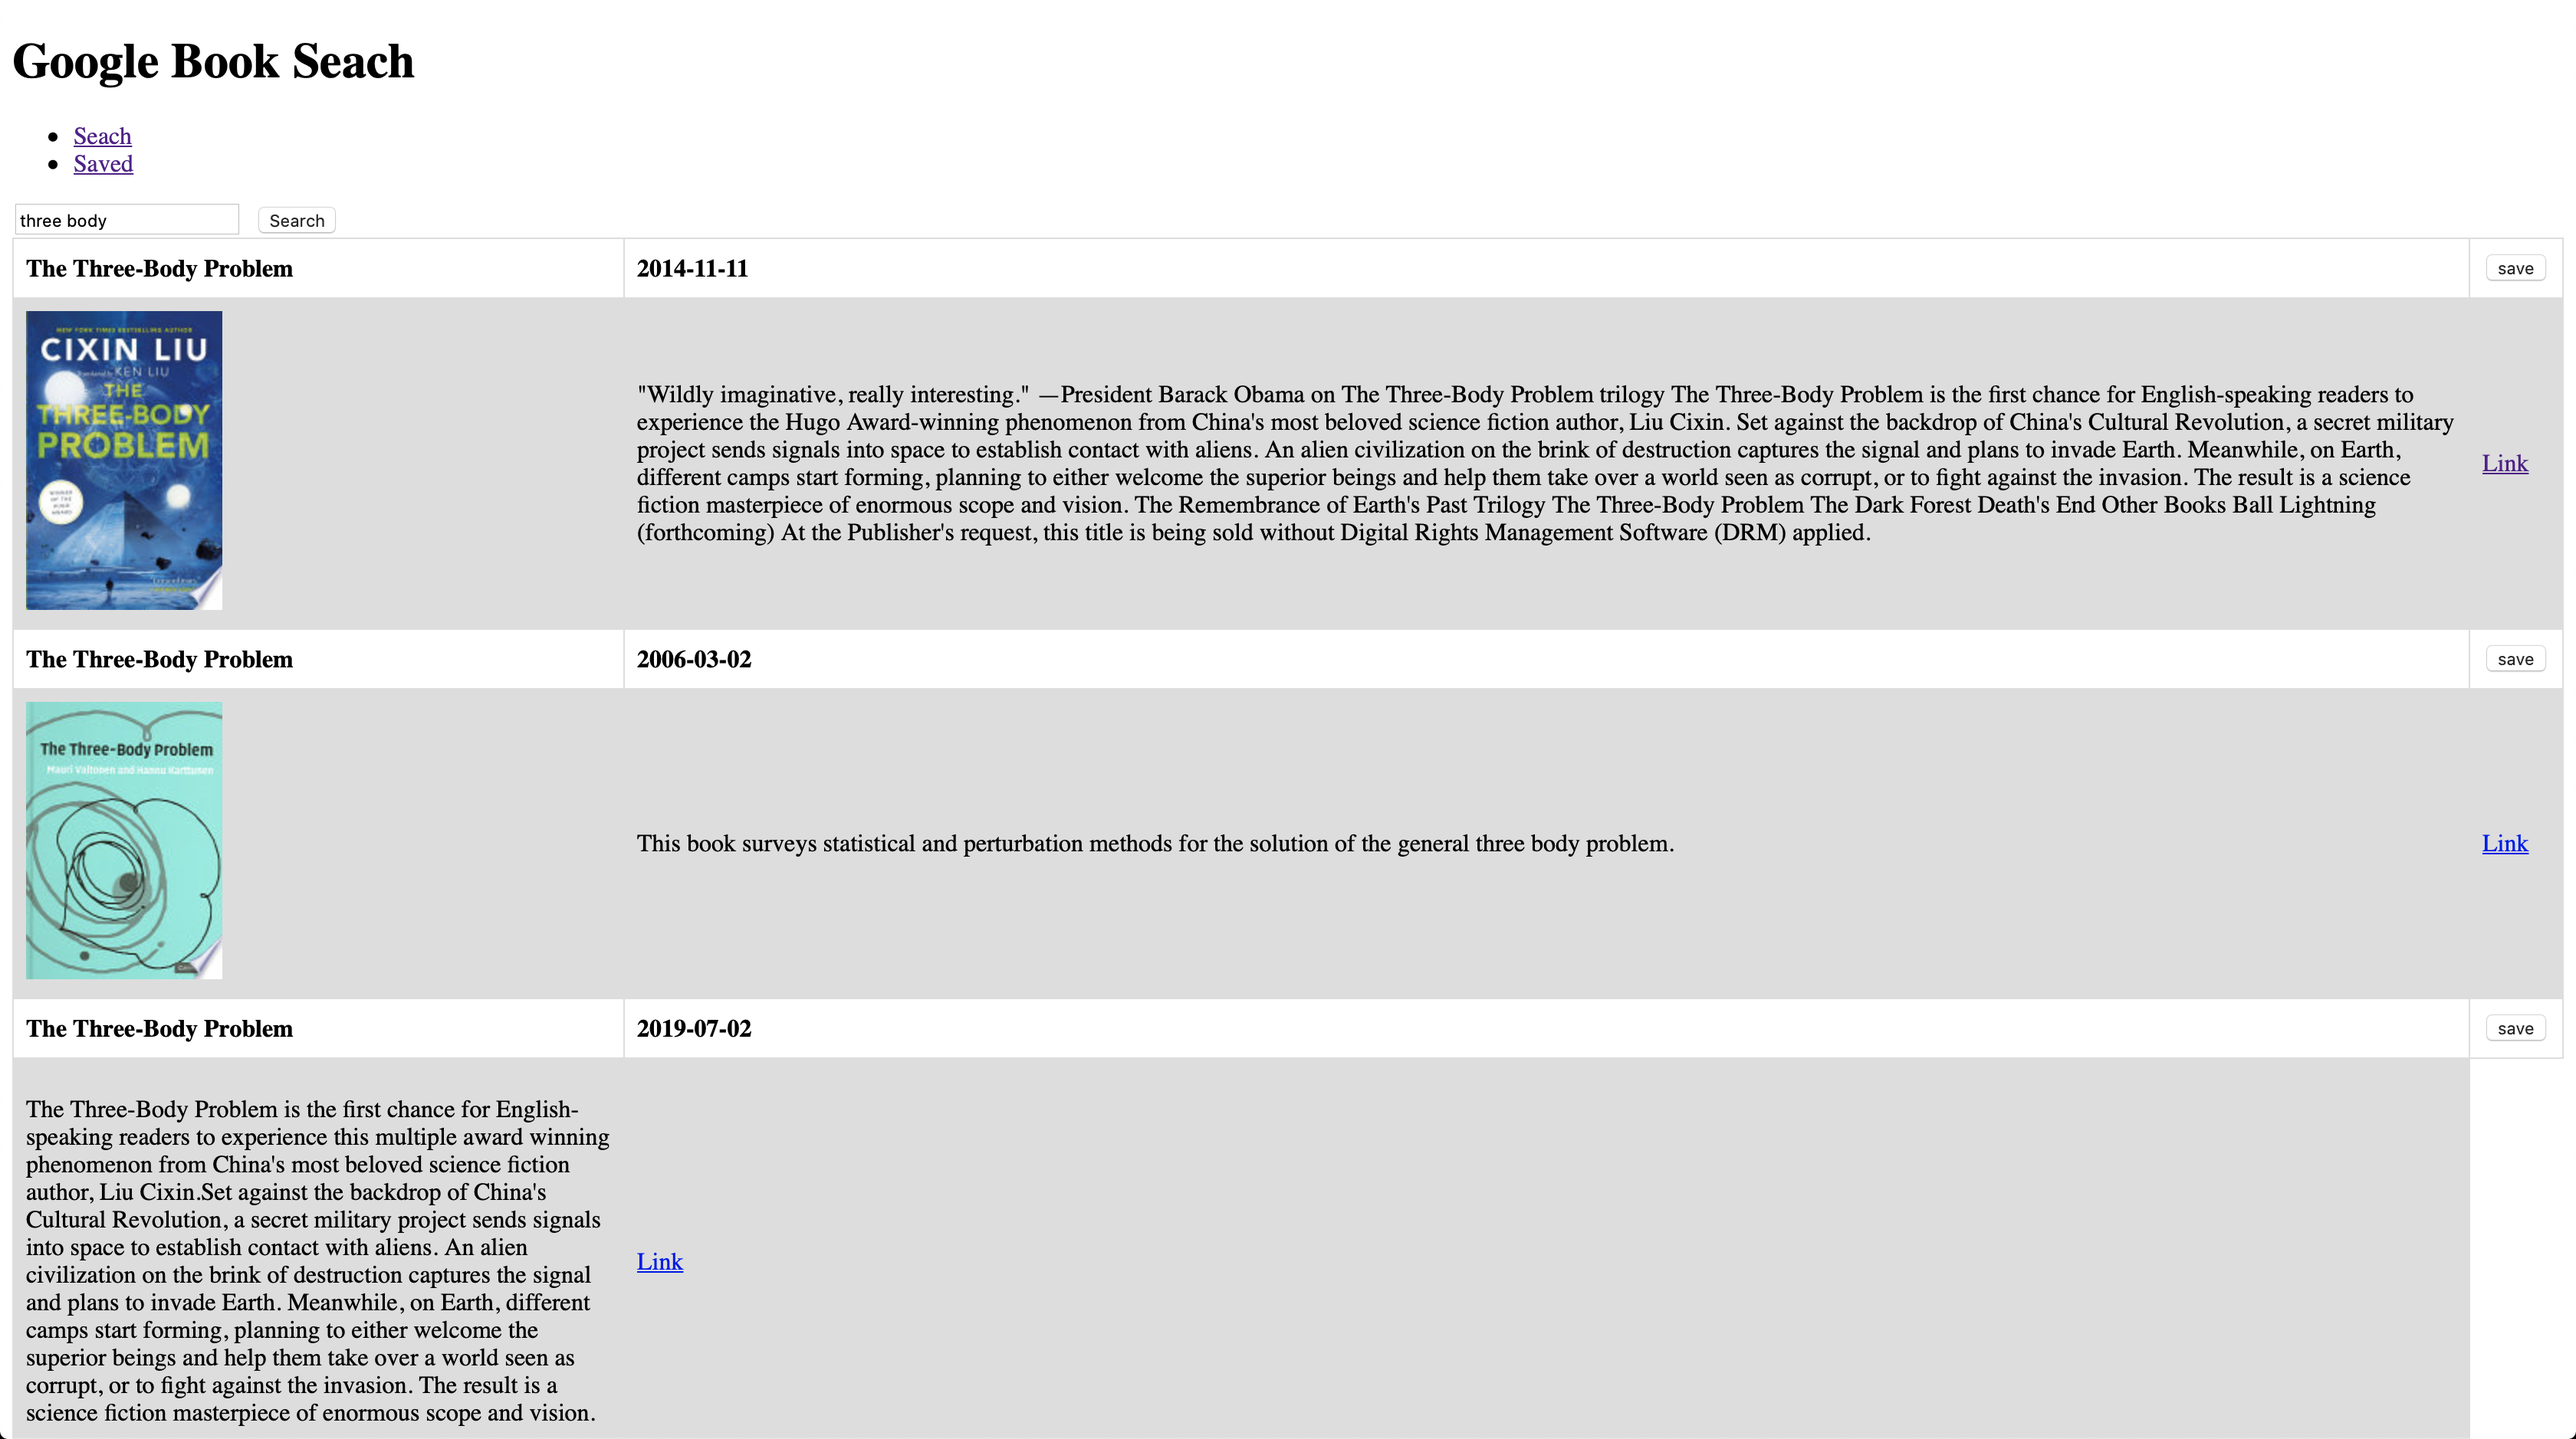
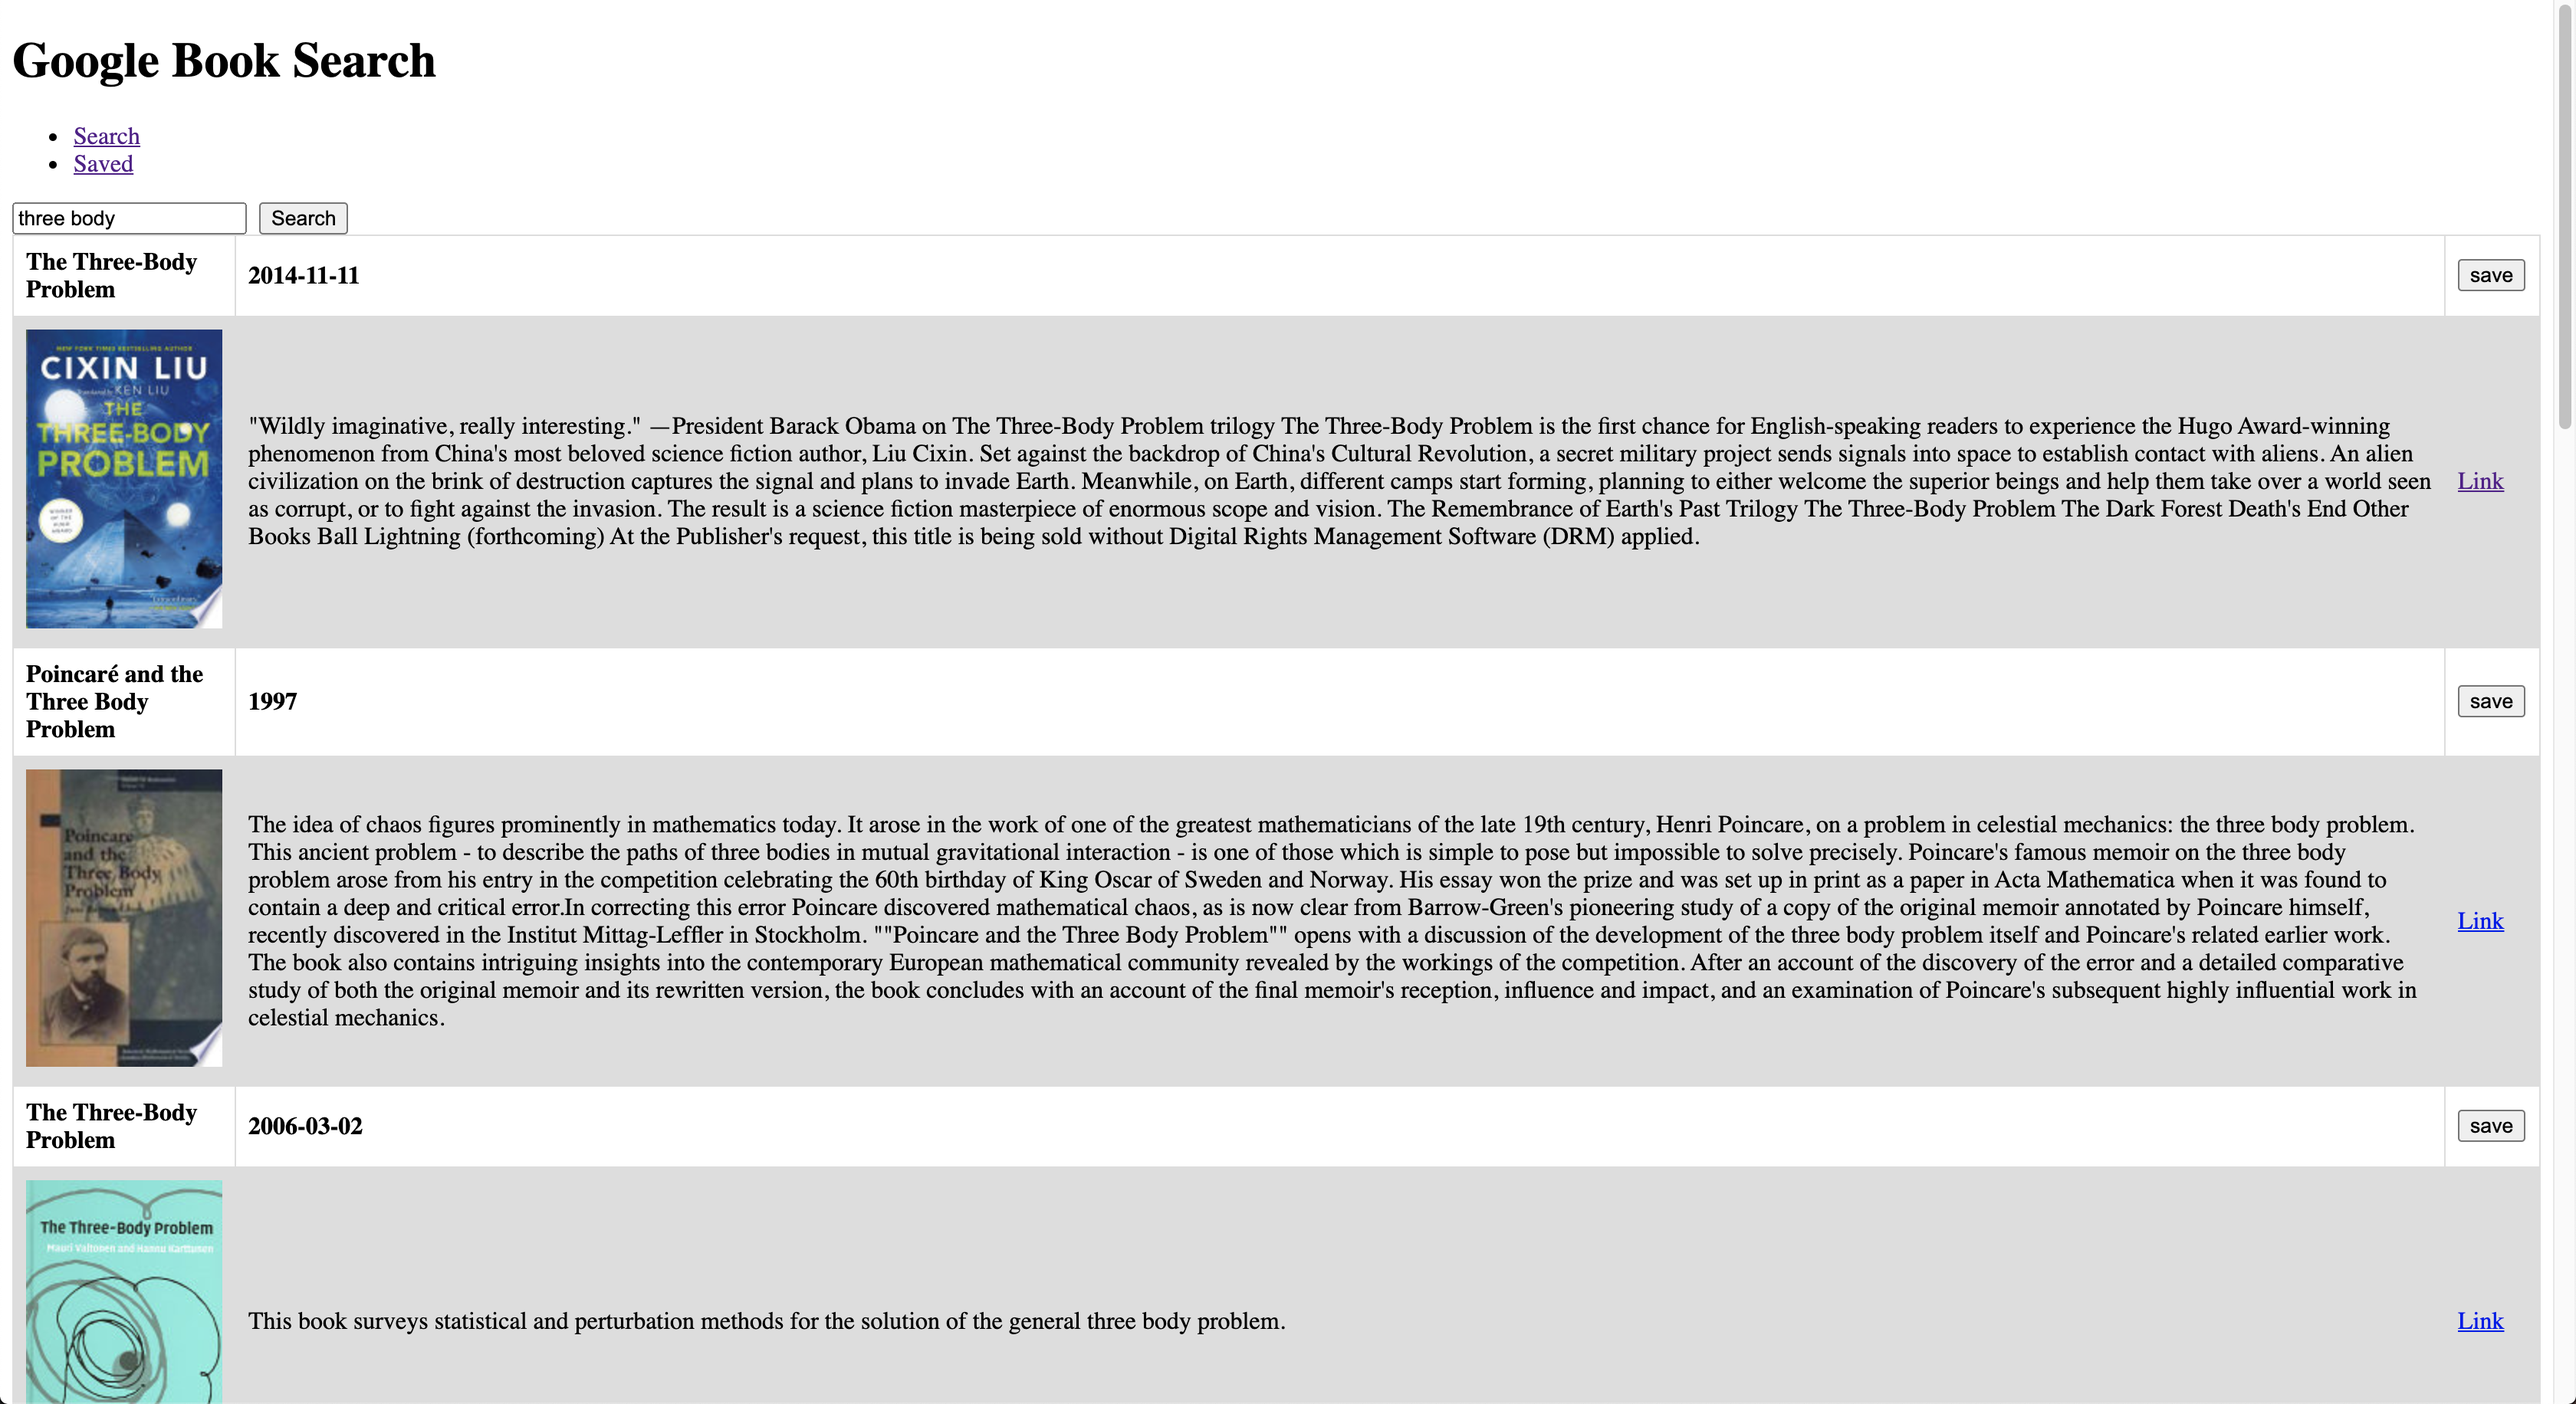
fix typo

diff --git a/client/src/components/Navbar.jsx b/client/src/components/Navbar.jsx
@@ -5,7 +5,7 @@ function Navbar() {
     return (
         <ul>
             <li>
-                <Link to={process.env.PUBLIC_URL + "/"}>Seach</Link>
+                <Link to={process.env.PUBLIC_URL + "/"}>Search</Link>
             </li>
             <li>
                 <Link to={process.env.PUBLIC_URL + "/saved"}>Saved</Link>

diff --git a/client/src/App.js b/client/src/App.js
@@ -9,7 +9,7 @@ function App() {
   return (
     <Router>
       <ReactNotification />
-      <h1>Google Book Seach</h1>
+      <h1>Google Book Search</h1>
       <Navbar />
       <Switch>
         <Route exact path={process.env.PUBLIC_URL + "/"} component={Search} />

diff --git a/README.md b/README.md
@@ -7,7 +7,7 @@
 - [License](#license)
 
 ## About
-This is a simple MERN stack application that will call google books API to return user search results. User can save their search results to MySQL database and view them in saved page. Inside of saved page user will have access to all the saved books on the database and be able delete them. 
+This is a MERN stack application that will call google books API to return user search results. User can save their search results to MySQL database and view them in saved page. Inside of saved page user will have access to all the saved books on the database and be able delete them. 
 
 ## Link
 [Google Books Search](https://frozen-anchorage-90956.herokuapp.com)
